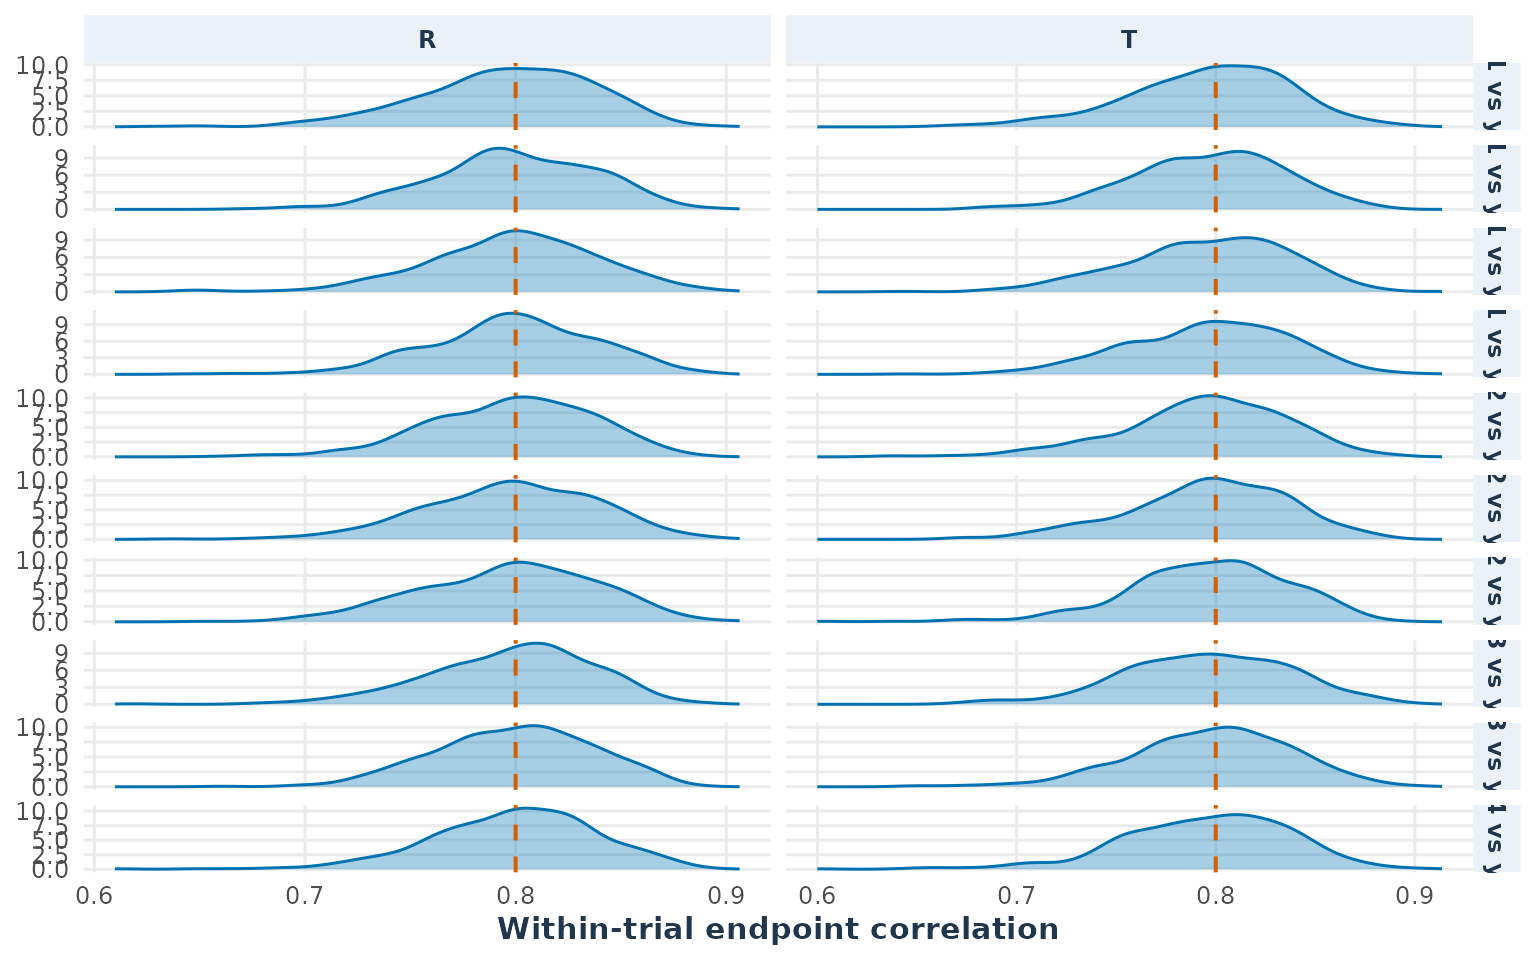
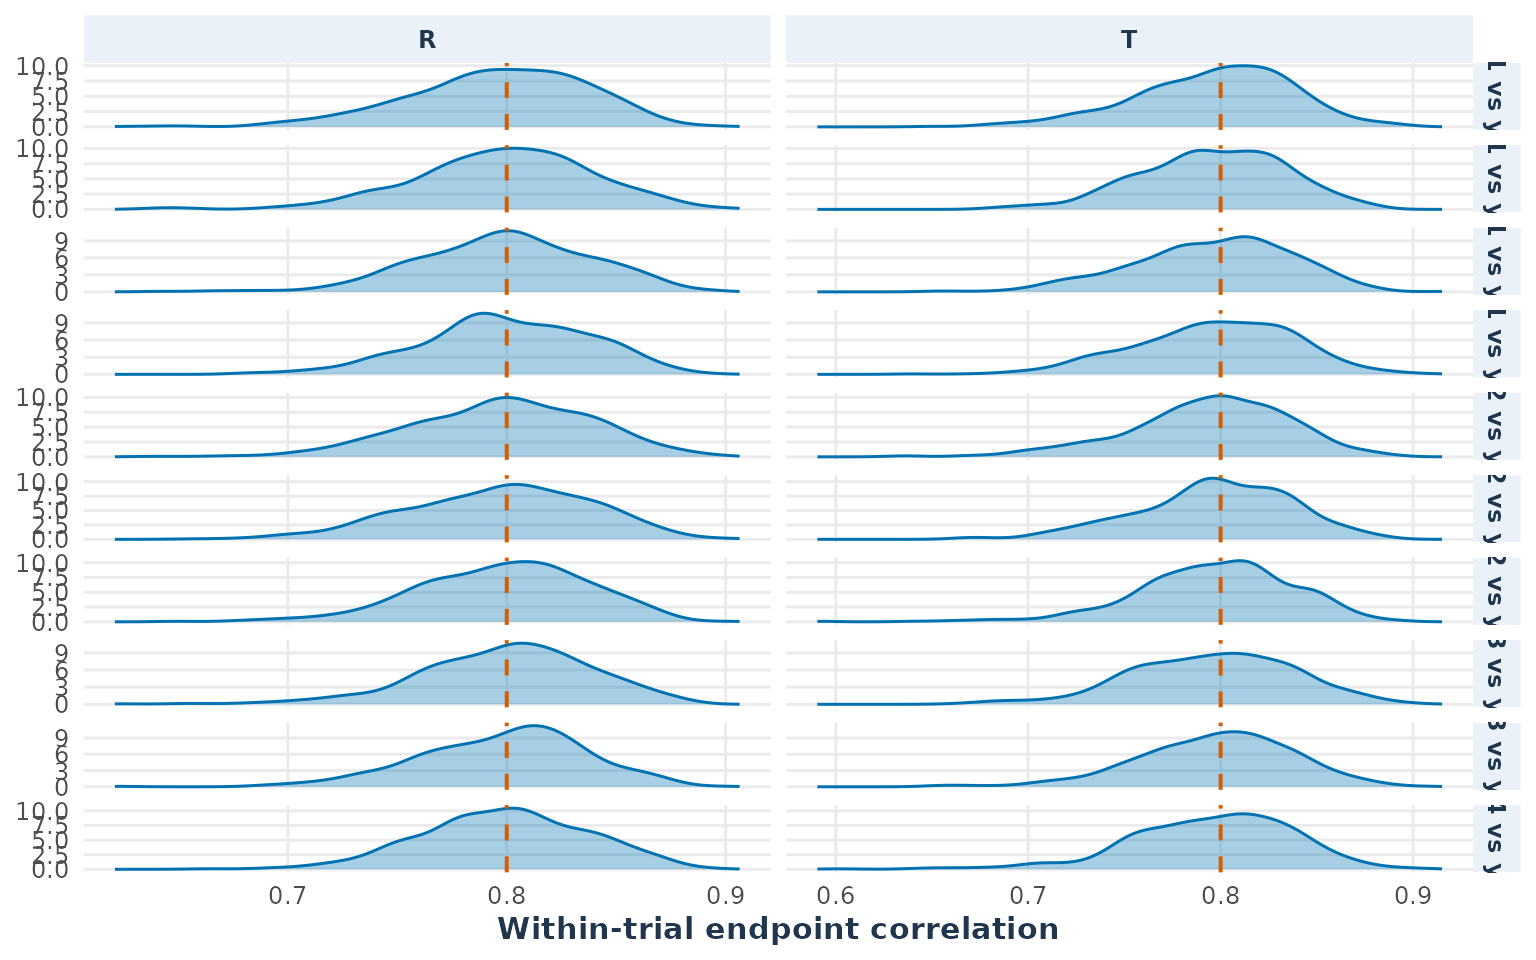
Deploying to gh-pages from @ smartdata-analysis-and-statistics/SimTOST@5118001c66fc1798ac208eb5cab5bcad30b673d8 🚀

diff --git a/articles/continuous_crossover.html b/articles/continuous_crossover.html
@@ -163,7 +163,7 @@ function.</p>
 <span>                 list_lequi.tol <span class="op">=</span> <span class="fu"><a href="https://rdrr.io/r/base/list.html" class="external-link">list</a></span><span class="op">(</span><span class="st">"T_vs_R"</span> <span class="op">=</span> <span class="va">lequi_lower</span><span class="op">)</span>,</span>
 <span>                 list_uequi.tol <span class="op">=</span> <span class="fu"><a href="https://rdrr.io/r/base/list.html" class="external-link">list</a></span><span class="op">(</span><span class="st">"T_vs_R"</span> <span class="op">=</span> <span class="va">lequi_upper</span><span class="op">)</span>,</span>
 <span>                 dtype <span class="op">=</span> <span class="st">"2x2"</span>, ctype <span class="op">=</span> <span class="st">"DOM"</span>, distribution <span class="op">=</span> <span class="st">"norm"</span>,</span>
-<span>                 adjust <span class="op">=</span> <span class="st">"none"</span>, nsim <span class="op">=</span> <span class="fl">500</span>, seed <span class="op">=</span> <span class="fl">1234</span><span class="op">)</span><span class="op">)</span></span>
+<span>                 adjust <span class="op">=</span> <span class="st">"none"</span>, nsim <span class="op">=</span> <span class="fl">1000</span>, seed <span class="op">=</span> <span class="fl">1234</span><span class="op">)</span><span class="op">)</span></span>
 <span><span class="co">#&gt; Sample Size Calculation Results</span></span>
 <span><span class="co">#&gt; -------------------------------------------------------------</span></span>
 <span><span class="co">#&gt; Study Design: 2x2 trial targeting 80% power with a 5% type-I error.</span></span>
@@ -173,12 +173,12 @@ function.</p>
 <span><span class="co">#&gt;     - Endpoints Tested: AUC, Cmax </span></span>
 <span><span class="co">#&gt;       (multiple co-primary endpoints, m =  2 )</span></span>
 <span><span class="co">#&gt; -------------------------------------------------------------</span></span>
-<span><span class="co">#&gt;                  Parameter       Value</span></span>
-<span><span class="co">#&gt;          Total Sample Size          39</span></span>
-<span><span class="co">#&gt;             Achieved Power        83.2</span></span>
-<span><span class="co">#&gt;  Power Confidence Interval 79.6 - 86.3</span></span>
+<span><span class="co">#&gt;                  Parameter     Value</span></span>
+<span><span class="co">#&gt;          Total Sample Size        37</span></span>
+<span><span class="co">#&gt;             Achieved Power      82.5</span></span>
+<span><span class="co">#&gt;  Power Confidence Interval 80 - 84.8</span></span>
 <span><span class="co">#&gt; -------------------------------------------------------------</span></span></code></pre></div>
-<p>The total sample size required is 39 subjects, which corresponds to
+<p>The total sample size required is 37 subjects, which corresponds to
 the estimate obtained using the PASS software (n=37).</p>
 <div class="section level3">
 <h3 id="estimating-power-at-a-fixed-sample-size">Estimating power at a fixed sample size<a class="anchor" aria-label="anchor" href="#estimating-power-at-a-fixed-sample-size"></a>

diff --git a/articles/count.html b/articles/count.html
@@ -222,20 +222,20 @@ with approximated power 0.80012.</p>
 <span>  exposure <span class="op">=</span> <span class="fl">0.7</span>,</span>
 <span>  dtype <span class="op">=</span> <span class="st">"parallel"</span>,</span>
 <span>  alpha <span class="op">=</span> <span class="fl">0.025</span>,</span>
-<span>  nsim <span class="op">=</span> <span class="fl">500</span>,</span>
+<span>  nsim <span class="op">=</span> <span class="fl">1000</span>,</span>
 <span>  seed <span class="op">=</span> <span class="fl">2024</span></span>
 <span><span class="op">)</span></span>
 <span><span class="va">zhu_benchmark</span></span>
 <span><span class="co">#&gt; Fixed-sample-size power</span></span>
 <span><span class="co">#&gt; Distribution: pois </span></span>
 <span><span class="co">#&gt; Sample size: 2705 </span></span>
-<span><span class="co">#&gt; Power: 0.7880 [0.7490, 0.8225]</span></span>
+<span><span class="co">#&gt; Power: 0.8030 [0.7767, 0.8269]</span></span>
 <span><span class="fu"><a href="https://rdrr.io/r/base/data.frame.html" class="external-link">data.frame</a></span><span class="op">(</span>reference_power <span class="op">=</span> <span class="fl">0.80012</span>,</span>
 <span>           simulated_power <span class="op">=</span> <span class="va">zhu_benchmark</span><span class="op">$</span><span class="va">power</span>,</span>
 <span>           simulated_lower <span class="op">=</span> <span class="va">zhu_benchmark</span><span class="op">$</span><span class="va">power_LCI</span>,</span>
 <span>           simulated_upper <span class="op">=</span> <span class="va">zhu_benchmark</span><span class="op">$</span><span class="va">power_UCI</span><span class="op">)</span></span>
 <span><span class="co">#&gt;   reference_power simulated_power simulated_lower simulated_upper</span></span>
-<span><span class="co">#&gt; 1         0.80012           0.788       0.7489947       0.8224918</span></span></code></pre></div>
+<span><span class="co">#&gt; 1         0.80012           0.803       0.7766876       0.8269464</span></span></code></pre></div>
 <p>The simulation need not reproduce the published value exactly. The
 published result is a large-sample approximation, whereas
 <code><a href="../reference/simPower.html">simPower()</a></code> simulates discrete event totals and reports a

diff --git a/index.html b/index.html
@@ -244,7 +244,7 @@
 <div class="developers">
 <h2 data-toc-skip>Developers</h2>
 <ul class="list-unstyled">
-<li>Thomas Debray <br><small class="roles"> Author, maintainer </small> <a href="https://orcid.org/0000-0002-1790-2719" target="orcid.widget" aria-label="ORCID" class="external-link"><span class="fab fa-orcid orcid" aria-hidden="true"></span></a>  </li>
+<li>Thomas Debray <br><small class="roles"> Author, maintainer </small>   </li>
 <li>Biogen Inc <br><small class="roles"> Copyright holder, funder </small>   </li>
 <li>Smart Data Analysis and Statistics B.V. <br><small class="roles"> Copyright holder, funder </small>   </li>
 <li><a href="authors.html">More about authors...</a></li>

diff --git a/authors.html b/authors.html
@@ -89,7 +89,7 @@
 
 
       <ul class="list-unstyled"><li>
-          <p><strong>Thomas Debray</strong>. Author, maintainer. <a href="https://orcid.org/0000-0002-1790-2719" target="orcid.widget" aria-label="ORCID" class="external-link"><span class="fab fa-orcid orcid" aria-hidden="true"></span></a>
+          <p><strong>Thomas Debray</strong>. Author, maintainer.
           </p>
         </li>
         <li>
